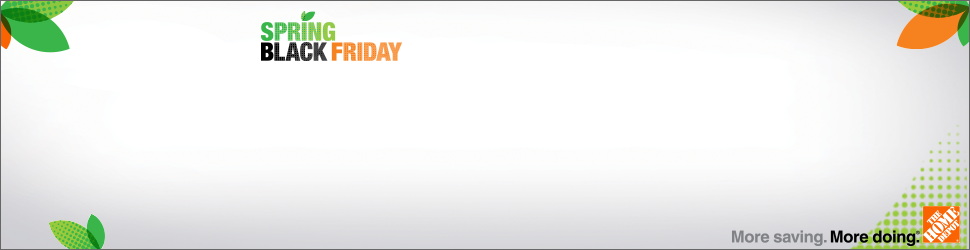
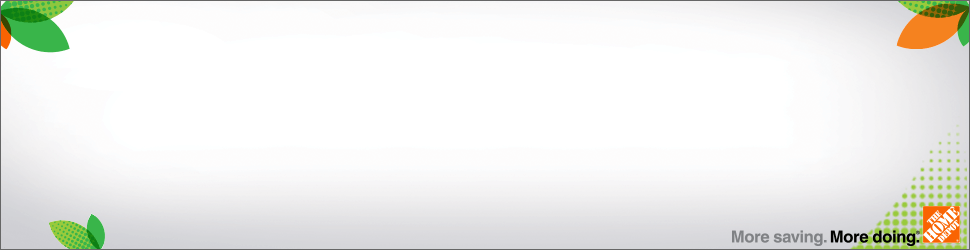
adds click event and optimized images

Changed region(s): [[0.2474, 0.028, 0.433, 0.252]]

diff --git a/HomeDepot_970x250_CP.html b/HomeDepot_970x250_CP.html
@@ -2,14 +2,13 @@
 <html>
   <head>
     <meta charset="utf-8">
+    <meta name="ad.size" content="width=160,height=600">
     <title>Home Depot 970x250 Billboard</title>
     <link rel="stylesheet" href="homedepot.css">
     <script type="text/javascript" src="http://onecreative.aol.com/ads/jsapi/ADTECH.js"></script>
     <script type="text/javascript" src="homedepot.js"></script>
   </head>
   <body>
-    <div class="container">
-
-    </div>
+    <div class="container"></div>
   </body>
 </html>

diff --git a/homedepot.js b/homedepot.js
@@ -1,0 +1,15 @@
+var background = document.getElementsByClassName('container');
+
+function init() {
+  handleEventListeners();
+}
+
+function handleEventListeners() {
+  background[0].addEventListener('click', function() {
+    ADTECH.click(
+      'Banner',
+      'https://www.homedepot.com/b/Appliances/Samsung/N-5yc1vZbv1wZa0f'
+    );
+  });
+}
+ADTECH.ready(init);

diff --git a/homedepot.css b/homedepot.css
@@ -1,5 +1,6 @@
 .container {
   width: 970px;
   height: 250px;
-  border: 1px solid black;
+  background: url(background.png) no-repeat;
+  cursor: pointer;
 }
